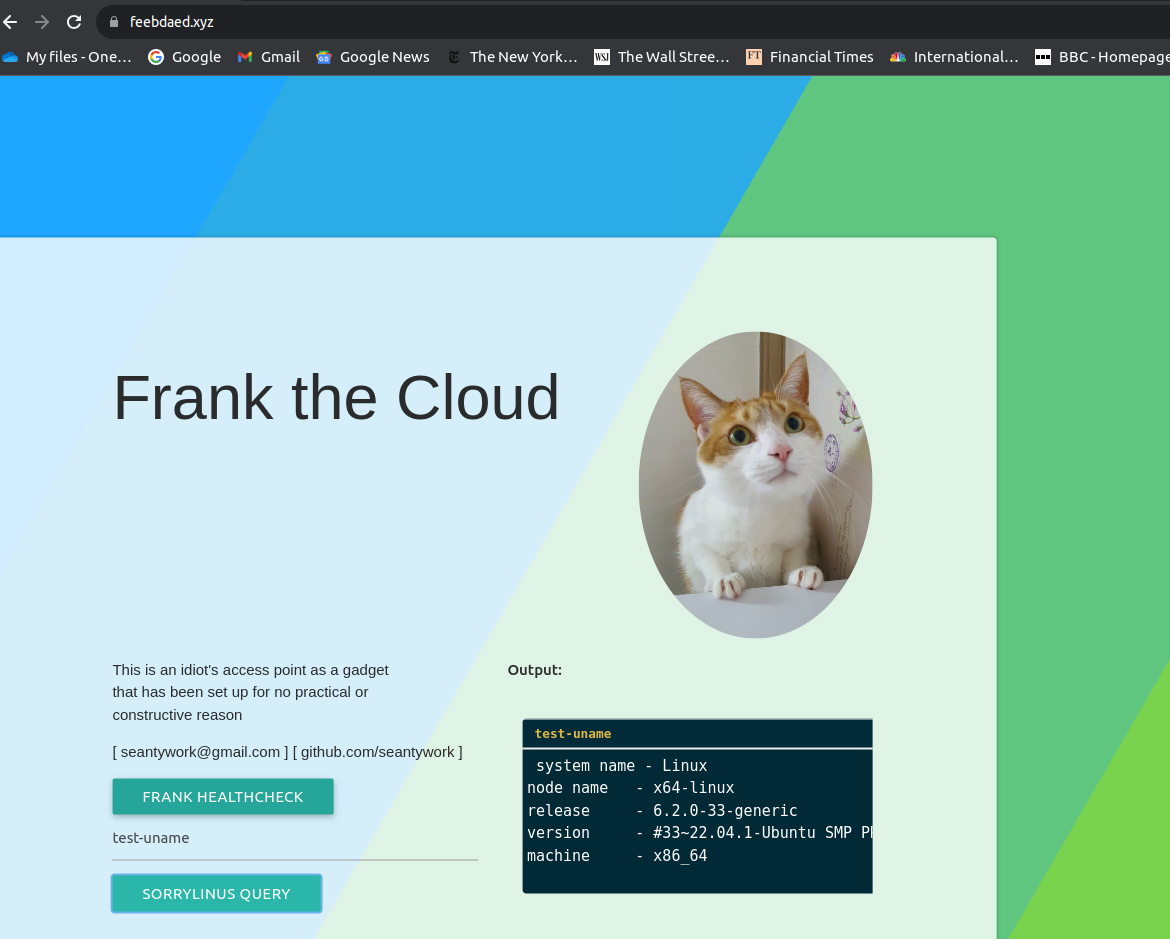
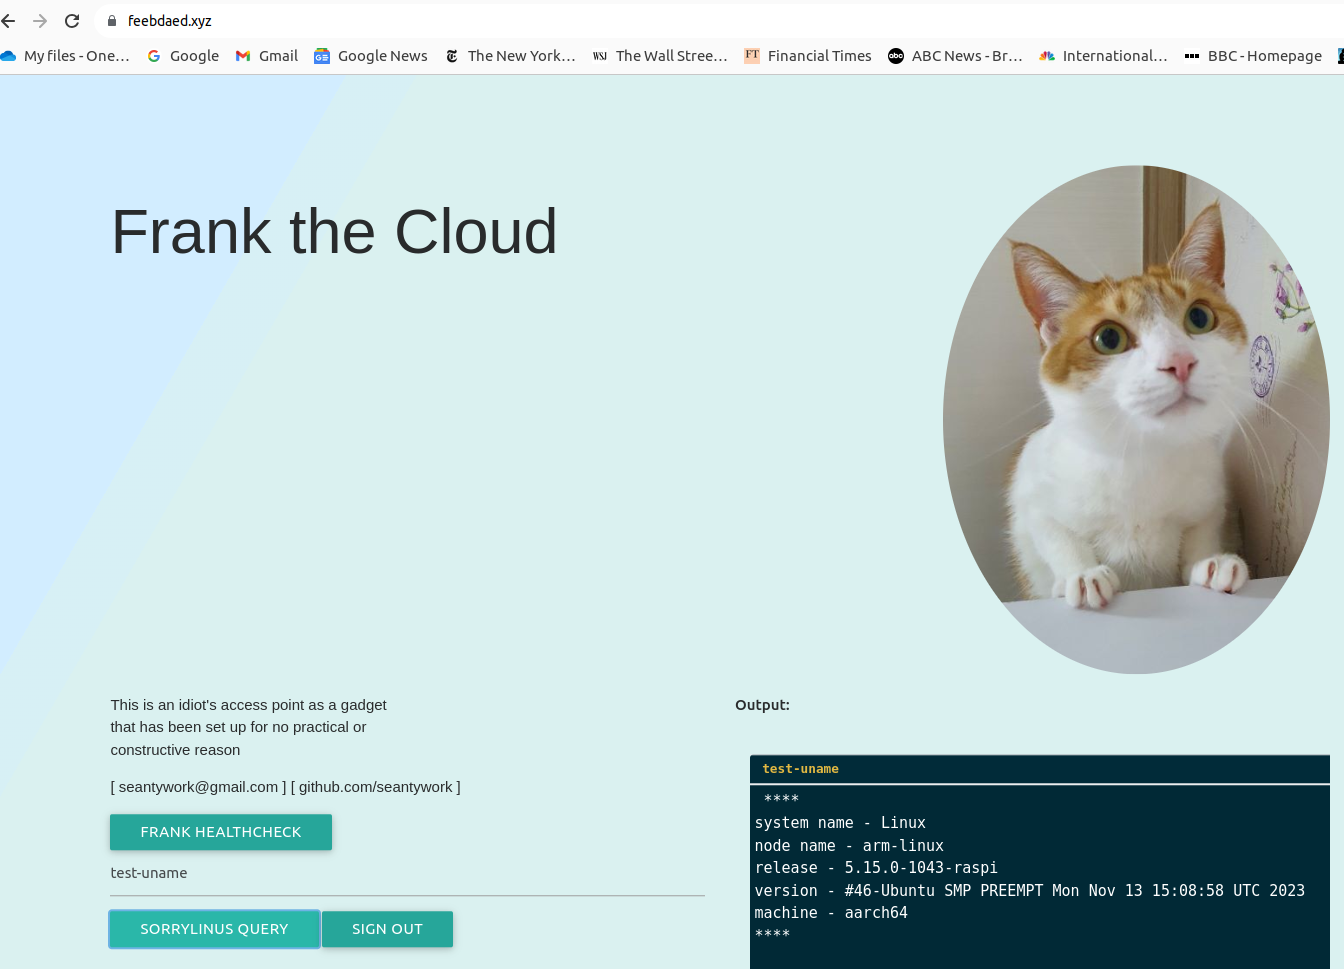
tested on arm

diff --git a/README.md b/README.md
@@ -15,7 +15,7 @@ the most useful software on earth
 
 [feebdaed.xyz](https://feebdaed.xyz)
 
-Now every component is written in either C or C++
+Now every component is written in C++
 
 run option for public access is: 
 
@@ -24,6 +24,8 @@ run option for public access is:
 ```
 
 below is the resulting output of 'test-uname' flag 
+
+tested on arm64
 
 ![result](docs/result-test-uname.png)
 
